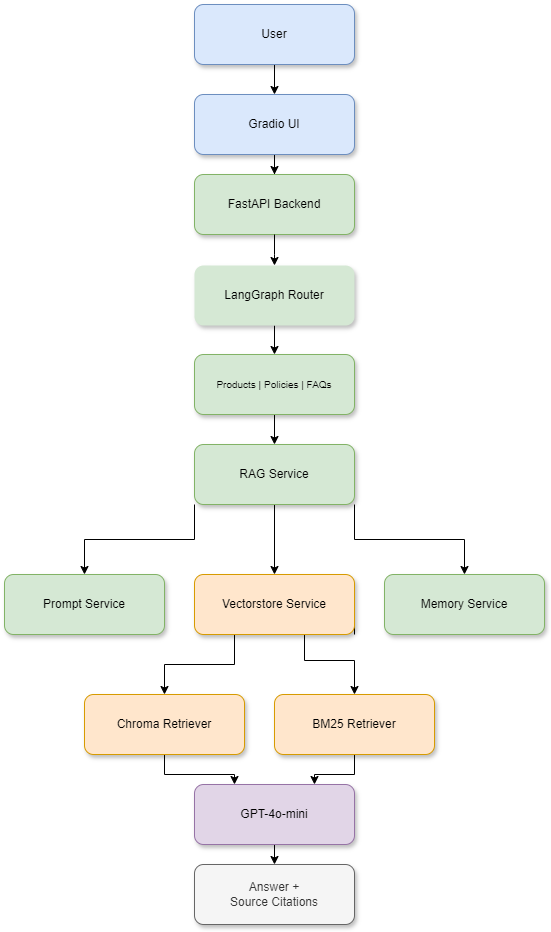
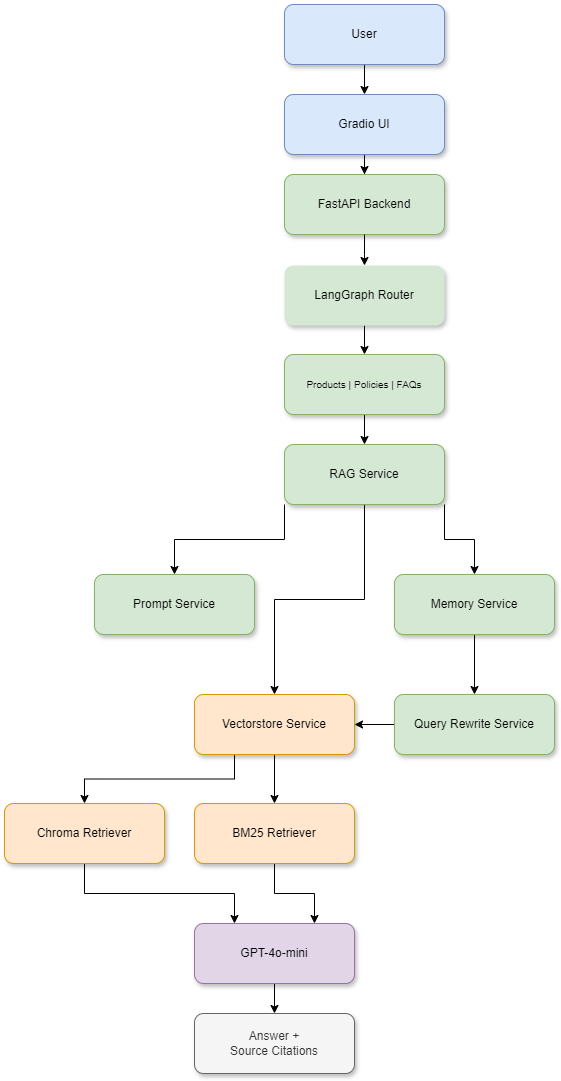
Update documentation and evaluation results

diff --git a/README.md b/README.md
@@ -12,6 +12,7 @@ The application helps users ask questions about products, store policies, shippi
 - OpenAI LLM integration
 - Chroma vector store
 - Hybrid retrieval using Chroma and BM25
+- Conversation-aware query rewriting
 - Product recommendation support
 - Product comparison support
 - FAQ, policies and product catalog retrieval
@@ -21,12 +22,13 @@ The application helps users ask questions about products, store policies, shippi
 - Retrieved source previews
 - Source citations in generated answers
 - Out-of-scope question handling
+- Automated RAG evaluation
+- Multi-turn conversation evaluation
+- LLM-as-a-Judge evaluation
 
 ## AI Sales & Support Assistant Architecture
 
-The architecture combines LangGraph routing, hybrid retrieval (BM25 + Chroma),
-conversation memory, prompt engineering and GPT-4o-mini to generate grounded
-responses with source citations.
+The architecture combines LangGraph routing, conversation memory, query rewriting, hybrid retrieval (BM25 + Chroma), prompt engineering and GPT-4o-mini to generate grounded responses with source citations.
 
 
 ![Architecture Diagram](docs/architecture_diagram.png)
@@ -53,6 +55,7 @@ ai-sales-support-assistant/
 │       │   ├── graph_service.py            # LangGraph routing logic
 │       │   ├── memory_service.py           # Conversation memory and summarization
 │       │   ├── prompt_service.py           # RAG and summary prompts
+│       │   ├── query_rewrite_service.py    # Conversation-aware query rewriting
 │       │   ├── rag_service.py              # Main RAG workflow
 │       │   └── vectorstore_service.py      # Hybrid retrieval with Chroma and BM25
 │       ├── vectorstore/                    # Local Chroma vector stores (ignored by Git)
@@ -64,11 +67,17 @@ ai-sales-support-assistant/
 │
 ├── docs/
 │   ├── architecture_diagram.png            # Architecture diagram
+│   ├── evaluation_results_screenshot.png   # Automated RAG evaluation results
 │   ├── memory_screenshot.png               # Conversation memory example
 │   ├── project_report.md                   # Detailed project report
 │   ├── swagger_screenshot.png              # FastAPI Swagger screenshot
 │   ├── test_cases.md                       # Manual test cases
 │   └── ui_screenshot.png                   # Gradio UI screenshot
+│
+├── evaluation/
+│   ├── evaluate_rag.py                     # Automated RAG evaluation runner
+│   ├── judge_service.py                    # LLM-as-a-Judge evaluation
+│   └── test_cases.py                       # Single-turn and multi-turn test cases
 │
 ├── .gitignore                              # Ignored files and folders
 ├── LICENSE                                 # Project license
@@ -173,7 +182,46 @@ http://127.0.0.1:7860
 Ποιος κέρδισε το Champions League;
 ```
 
-## Testing
+## Evaluation
+
+The project includes an automated evaluation pipeline for testing the RAG system.
+
+Run the evaluation from the project root:
+
+```cmd
+python -m evaluation.evaluate_rag
+```
+**The evaluation includes:**
+- Knowledge-base routing accuracy
+- Expected answer content checks
+- Source retrieval checks
+- Source citation validation
+- Single-turn test cases
+- Multi-turn conversation test cases
+- LLM-as-a-Judge evaluation
+
+**The LLM-as-a-Judge evaluates generated answers using three criteria:**
+- Relevance
+- Groundedness
+- Completeness
+
+**Current evaluation results:**
+
+```text
+Tests passed:       11/11
+Route accuracy:     100.0%
+Content accuracy:   100.0%
+Source retrieval:   100.0%
+Citation accuracy:  100.0%
+
+LLM-as-a-Judge:
+Average relevance:    5.00/5
+Average groundedness: 5.00/5
+Average completeness: 5.00/5
+```
+
+![RAG Evaluation Results](docs/evaluation_results_screenshot.png)
+
 
 Manual test cases are available in:
 
@@ -191,6 +239,8 @@ The assistant uses structured prompts to answer as a sales and support assistant
 
 The retrieval layer combines Chroma vector similarity search with BM25 keyword-based retrieval. This improves results for both semantic user queries and exact product, payment or policy terms.
 
+Chroma is persisted locally and existing collections are loaded on application startup instead of being re-indexed, preventing duplicate document chunks from being added across multiple runs.
+
 ### Product Comparison
 
 The assistant can compare products side-by-side using retrieved catalog data and present the comparison in a structured table.
@@ -207,6 +257,28 @@ The application loads business knowledge from text files, splits it into chunks,
 
 The system keeps recent chat messages and summarizes older messages, allowing follow-up questions.
 
+### Query Rewriting
+
+The system uses conversation-aware query rewriting to improve retrieval for follow-up questions.
+
+When a user asks an ambiguous follow-up question, the current question and conversation context are used to generate a standalone retrieval query. This allows the hybrid retriever to search with the complete intent while preserving the original conversation.
+
+For example:
+
+```text
+Previous question:
+Θέλω laptop για gaming μέχρι 900€
+
+Follow-up:
+Τι μου πρότεινες τελικά;
+
+Rewritten retrieval query:
+A standalone query containing the relevant context from the previous conversation.
+```
+
+The rewritten query is used only for document retrieval, while the original question and conversation context are preserved for final answer generation.
+
+
 ### LangGraph Routing
 
 LangGraph is used to route user questions to the correct knowledge base:
@@ -218,7 +290,7 @@ LangGraph is used to route user questions to the correct knowledge base:
 
 The application was developed as an educational project for the AI for Developers program.
 
-The project demonstrates the integration of FastAPI, LangChain, LangGraph, Chroma, OpenAI models, Retrieval-Augmented Generation (RAG) and conversation memory in a complete end-to-end AI application.
+The project demonstrates the integration of FastAPI, LangChain, LangGraph, Chroma, OpenAI models, hybrid retrieval, query rewriting, conversation memory and automated RAG evaluation in a complete end-to-end AI application.
 
 ## License
 
